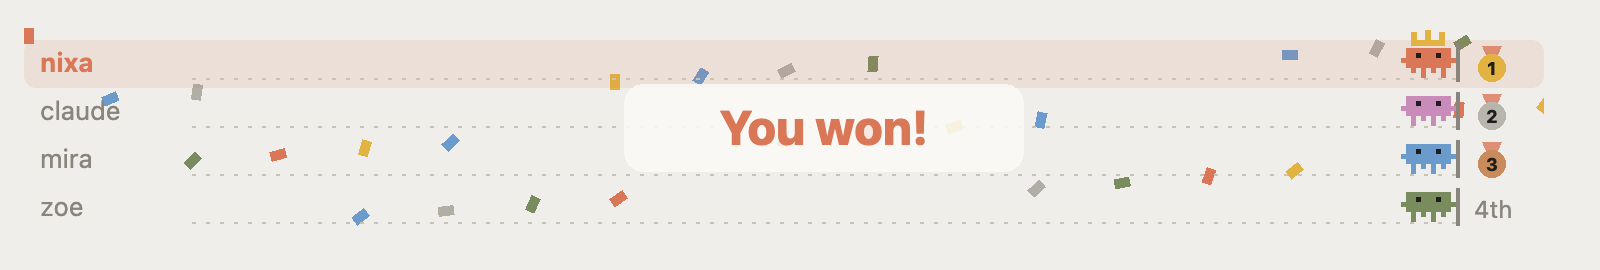
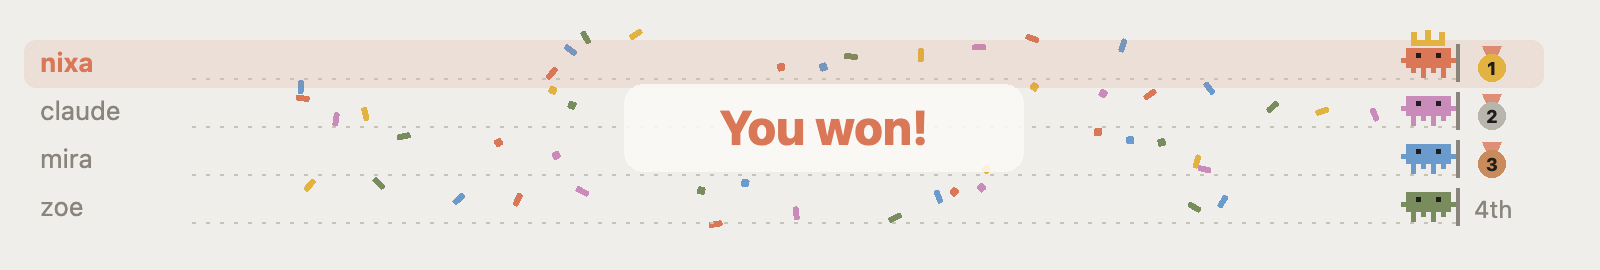
fix: steady countdown, terminal mascots and a confetti burst

diff --git a/plugins/code-race/hooks/register.tsx b/plugins/code-race/hooks/register.tsx
@@ -103,11 +103,15 @@ async function call($: EngineInterface, path: string, body: unknown): Promise<Sn
 
 const colorOf = (c: unknown) => (typeof c === 'string' && /^#[0-9a-f]{6}$/i.test(c) ? c : GREY)
 
-// The race as an answer has it, on this machine's clock: the offset is measured at the
-// middle of the request. The server's finish stands over yours, since it is what the race
-// records; until it comes, yours shows.
+// The race as an answer has it, on this machine's clock. The offset between the clocks is
+// measured at the middle of each request and kept from the quickest one: a slow answer
+// (the first join wakes the server) would put it off by up to a second, and the countdown
+// would jump. The server's finish stands over yours, since it is what the race records;
+// until it comes, yours shows.
 function fromSnapshot(r: Race, s: Snapshot, sentAt: number, receivedAt: number): Race {
-  const offset = s.serverNow - (sentAt + receivedAt) / 2
+  const rtt = receivedAt - sentAt
+  const isBetter = r.offset === null || rtt <= r.rtt
+  const offset = isBetter ? s.serverNow - (sentAt + receivedAt) / 2 : r.offset!
   const local = (t: number | null) => (t === null ? null : t - offset)
   const racers: Racer[] = s.racers.flatMap((x): Racer[] => {
     if (x.kind === 'you') return []
@@ -125,6 +129,8 @@ function fromSnapshot(r: Race, s: Snapshot, sentAt: number, receivedAt: number):
     startAt: s.startAt - offset,
     racers,
     polledAt: receivedAt,
+    offset,
+    rtt: isBetter ? rtt : r.rtt,
     finishedAt,
     pos: finishedAt !== null ? s.code.length : r.pos,
   }
@@ -154,6 +160,8 @@ async function startRace($: EngineInterface) {
     startAt: now + JOIN_TIMEOUT_MS + COUNTDOWN_MS,
     racers: [],
     polledAt: now,
+    offset: null,
+    rtt: 1e9, // no answer yet: any first one is quicker
     pos: 0,
     wrong: 0,
     errors: 0,
@@ -205,6 +213,7 @@ const isCurrent = (r: Race | null): r is Race =>
   !!r &&
   typeof r.playerId === 'string' &&
   typeof r.isRestored === 'boolean' &&
+  'offset' in r &&
   Array.isArray(r.racers) &&
   r.racers.every(x => typeof x.hasLeft === 'boolean' && Array.isArray(x.marks))
 
@@ -305,14 +314,20 @@ function crown(x: number, y: number): string {
   return r(5, -4, 17, 3) + r(5, -8, 3, 4) + r(12, -9, 3, 5) + r(19, -8, 3, 4)
 }
 
-// A few pieces of confetti over the track when you won, scattered the same way each time.
+// A burst of confetti around the banner when you won, laid out the same way each time:
+// pieces on a golden-angle spiral, wide rather than tall to fit the track.
 function confetti(h: number): string {
-  const colors = [YOU, '#6a9bcc', '#788c5d', MEDALS[0], '#b0aea5']
-  return Array.from({ length: 28 }, (_, i) => {
-    const x = (i * 211) % W
-    const y = 2 + ((i * 53) % (h - 12))
-    const turn = (i * 47) % 90
-    return `<rect x="${x}" y="${y}" width="5" height="8" fill="${colors[i % colors.length]}" transform="rotate(${turn} ${x + 2} ${y + 4})"/>`
+  const colors = [YOU, '#6a9bcc', '#788c5d', MEDALS[0], '#c98bb9']
+  const cx = (NAME_W + FINISH) / 2
+  const cy = h / 2
+  return Array.from({ length: 48 }, (_, i) => {
+    const angle = i * 2.39996
+    const reach = 0.45 + ((i * 37) % 55) / 100
+    const x = Math.round(cx + Math.cos(angle) * reach * 300)
+    const y = Math.round(Math.min(h - 6, Math.max(2, cy + Math.sin(angle) * reach * (h / 2 + 6))))
+    const turn = (i * 47) % 180
+    const [w, l] = i % 3 === 0 ? [4, 4] : [3, 7]
+    return `<rect x="${x}" y="${y}" width="${w}" height="${l}" rx="1" fill="${colors[i % colors.length]}" transform="rotate(${turn} ${x} ${y})"/>`
   }).join('')
 }
 
@@ -492,23 +507,7 @@ export const register: Register = on => {
       // A plain picture, not a frame: a frame reloads, and flashes, on every redraw.
       track = <Svg source={trackSvg(r, now)} alt="Race track" height={trackHeight()} />
     } else {
-      // The terminal gives the band about half its height: the header and the line always
-      // show, your lane next, and the others as many as fit, so nothing scrolls away.
-      const width = Math.max(20, Math.min(60, e.props.bodyColumns - 24))
-      const elapsed = Math.max(0, now - r.startAt)
-      const share = (o: Racer) =>
-        o.kind === 'bot' ? (p.stage === 'racing' || p.stage === 'done' ? shareAt(o, elapsed) : 0) : len ? o.pos / len : 0
-      const room = Math.max(1, (e.props.maxRows || 6) - 1 - (p.stage === 'racing' ? 1 : 0))
-      const lanes = [{ name: r.me, share: len ? r.pos / len : 0 }, ...r.racers.map(o => ({ name: o.name, share: share(o) }))].slice(0, room)
-      track = (
-        <Box flexDirection="column">
-          {lanes.map((l, i) => {
-            const at = Math.round(l.share * (width - 1))
-            const line = `${l.name.slice(0, 10).padEnd(10)} ${'─'.repeat(at)}▟▙${'─'.repeat(width - 1 - at)}│`
-            return <Text color={i === 0 ? YOU : undefined} bold={i === 0} dimColor={i > 0}>{line}</Text>
-          })}
-        </Box>
-      )
+      track = terminalTrack(r, p, now, e.props.bodyColumns, e.props.maxRows, Box, Text)
     }
 
     // The line, a window around where you are: what you typed dim, the next character on
@@ -544,6 +543,76 @@ export const register: Register = on => {
       </Box>
     )
   })
+}
+
+// Claude Code's own mascot, as its welcome screen draws it: standing, and mid-stride.
+const CLAWD_STANDING = [' ▐▛███▜▌ ', '▝▜█████▛▘', '  ▘▘ ▝▝  ']
+const CLAWD_RUNNING = [' ▐▛███▛█ ', '▝▜██████▀', ' ▝▝   ▝▝ ']
+const CLAWD_SMALL = '▐▛█▜▌' // one row, for a short terminal
+
+// The terminal's track: three rows a lane with the mascot running along the bottom one,
+// or, when the band has no room for that, one row a lane with its head alone. The band
+// gets about half the terminal: the header and the line always show, your lane next, and
+// the others as many as fit, so nothing scrolls away.
+function terminalTrack(r: Race, p: Phase, now: number, columns: number, maxRows: number, Box: any, Text: any): RenderElement {
+  const len = r.code.length
+  const elapsed = Math.max(0, now - r.startAt)
+  const isRunning = p.stage === 'racing' || p.stage === 'done'
+  const share = (o: Racer) => (o.kind === 'bot' ? (isRunning ? shareAt(o, elapsed) : 0) : len ? o.pos / len : 0)
+  const order = [...r.racers.map(x => finishOf(r, x) ?? Infinity), r.finishedAt ?? Infinity].filter(t => t <= now).sort((a, b) => a - b)
+  const placeAt = (t: number | null) => (t === null || t > now ? null : order.indexOf(t) + 1)
+  const lanes = [
+    { name: r.me, color: YOU, share: len ? r.pos / len : 0, isYou: true, moving: p.stage === 'racing', place: placeAt(r.finishedAt) },
+    ...r.racers.map(o => {
+      const fin = finishOf(r, o)
+      return { name: o.name, color: o.color, share: share(o), isYou: false, moving: isRunning && (fin === null || fin > now) && !o.hasLeft, place: placeAt(fin) }
+    }),
+  ]
+  const free = Math.max(1, (maxRows || 6) - 1 - (p.stage === 'racing' ? 1 : 0))
+  const isBig = free >= lanes.length * 3
+  const width = Math.max(24, Math.min(64, columns - 20))
+  const step = Math.floor(now / 500) % 2 === 0
+  const tag = (place: number | null) => (p.stage === 'done' && place !== null ? ` ${['🥇', '🥈', '🥉'][place - 1] ?? PLACE[place - 1]}` : '')
+  const rows: RenderElement[] = []
+  for (const l of lanes.slice(0, isBig ? lanes.length : free)) {
+    const name = l.name.slice(0, 10).padEnd(10)
+    const label = <Text color={l.isYou ? YOU : undefined} bold={l.isYou} dimColor={!l.isYou}>{name}</Text>
+    if (!isBig) {
+      const at = Math.round(l.share * (width - CLAWD_SMALL.length))
+      rows.push(
+        <Text>
+          {label}
+          <Text dimColor>{` ${'─'.repeat(at)}`}</Text>
+          <Text color={l.color}>{CLAWD_SMALL}</Text>
+          <Text dimColor>{`${'─'.repeat(width - CLAWD_SMALL.length - at)}│`}</Text>
+          <Text bold={l.isYou}>{tag(l.place)}</Text>
+        </Text>,
+      )
+      continue
+    }
+    const art = l.moving && (l.isYou ? r.pos % 2 === 1 : step) ? CLAWD_RUNNING : CLAWD_STANDING
+    const at = Math.round(l.share * (width - 9))
+    const after = width - 9 - at
+    rows.push(<Text>{`${' '.repeat(11 + at)}`}<Text color={l.color}>{art[0]}</Text>{`${' '.repeat(after)}`}<Text dimColor>│</Text></Text>)
+    rows.push(
+      <Text>
+        {label}
+        {` ${' '.repeat(at)}`}
+        <Text color={l.color}>{art[1]}</Text>
+        {`${' '.repeat(after)}`}
+        <Text dimColor>│</Text>
+        <Text bold={l.isYou}>{tag(l.place)}</Text>
+      </Text>,
+    )
+    rows.push(
+      <Text>
+        <Text dimColor>{`${' '.repeat(11)}${'─'.repeat(at)}`}</Text>
+        <Text color={l.color}>{art[2]}</Text>
+        <Text dimColor>{`${'─'.repeat(after)}│`}</Text>
+      </Text>,
+    )
+  }
+  return <Box flexDirection="column">{rows}</Box>
 }
 
 // One clock for the race, every 250 ms: the server asked once a second while it runs, a

diff --git a/plugins/code-race/types/index.d.ts b/plugins/code-race/types/index.d.ts
@@ -21,6 +21,8 @@ export type Race = {
   startAt: number // GO: typing opens
   racers: Racer[]
   polledAt: number
+  offset: number | null // server clock minus this one, from the quickest answer so far
+  rtt: number // how long that answer took
   pos: number // how much of the line your message box matches
   wrong: number // characters in your box past that, which you have to delete
   errors: number

diff --git a/README.md b/README.md
@@ -13,6 +13,7 @@ Typing races against other Claude Code users, right above your prompt. Waiting o
 - Half the lines are code (TypeScript, Python, Go, SQL, shell, CSS) and half are short notes in the style of developer docs.
 - Whatever you had in the message box before the race is put back after it.
 - At the end: medals at the finish line, a crown for the winner, your place, words per minute and accuracy, and **Rerace**.
+- In the terminal every racer is Claude Code's own block-character mascot, running along its lane.
 
 ## Install
 
